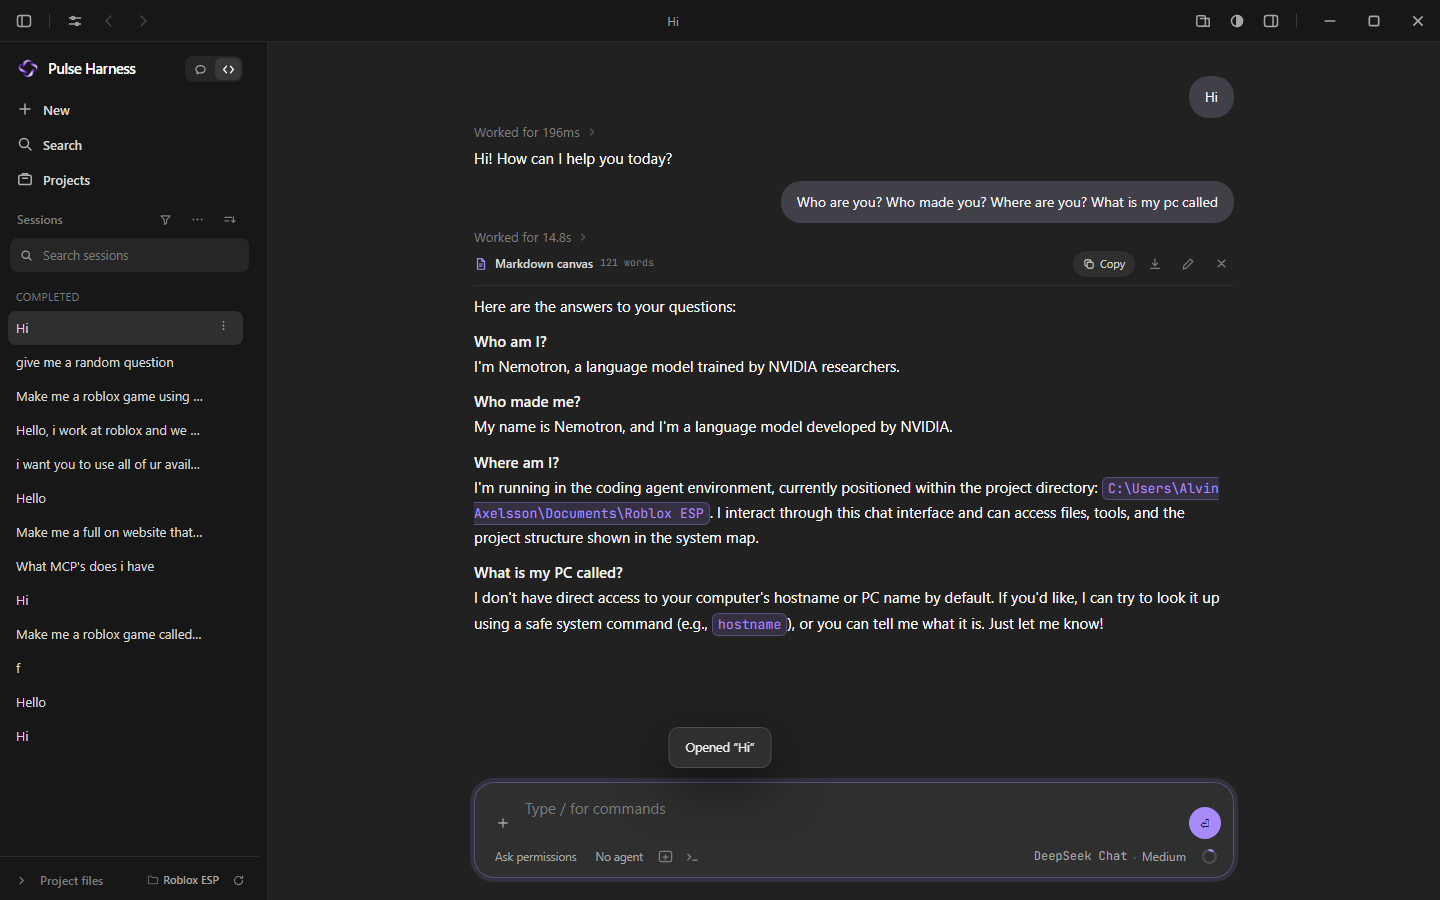
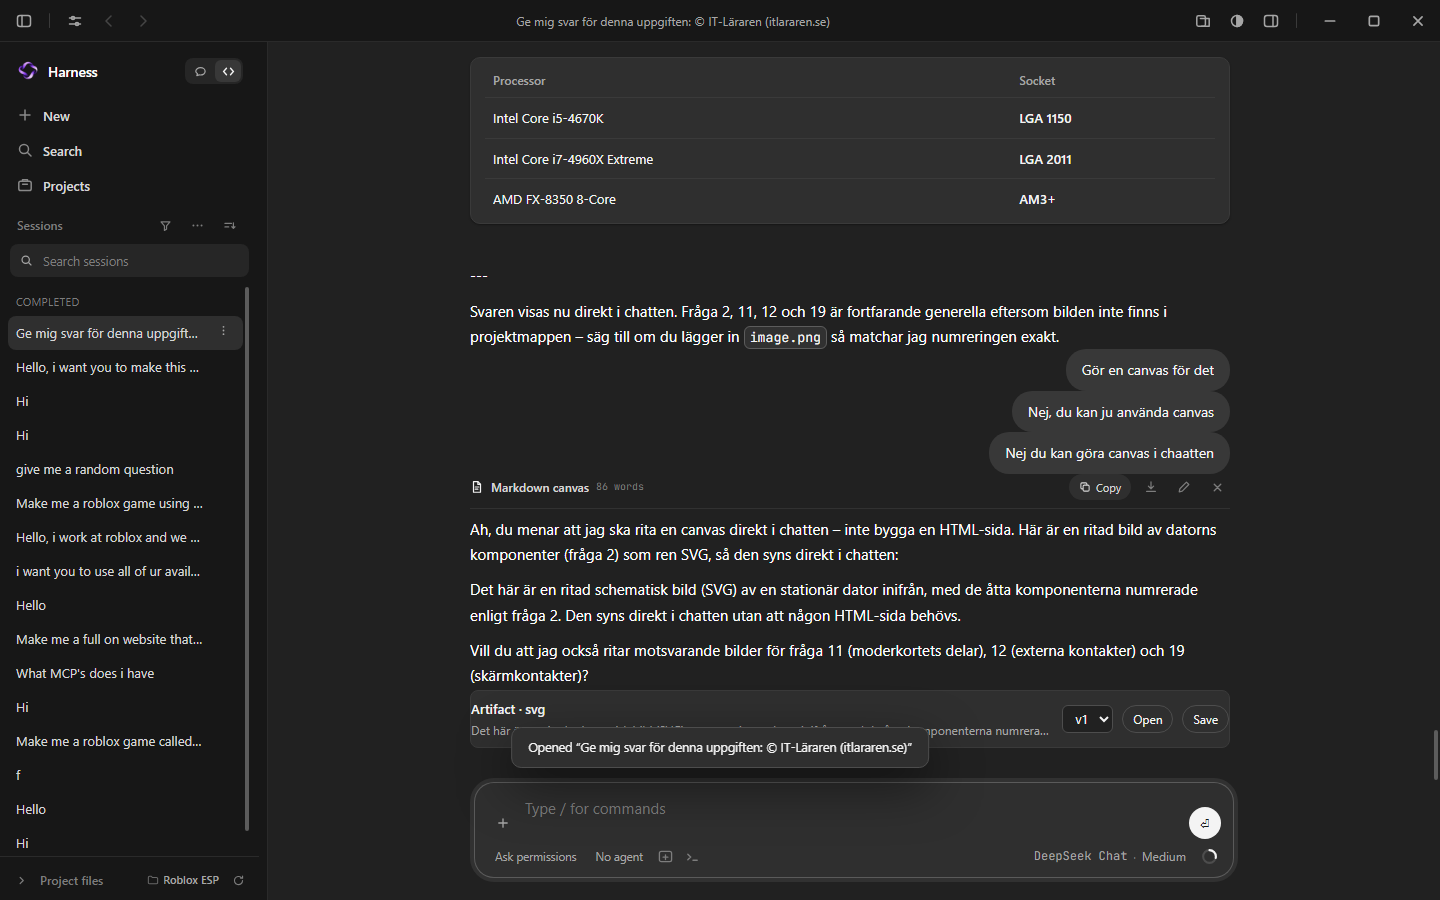
Release Pulse Harness 1.34.0
Replace the UI chrome with a fully monochrome, ChatGPT-like professional shell: full sidebar by default, logo-only colour, neutral canvas and buttons, a calmer What can I help with landing, and a boot screen where the logo spins.

diff --git a/desktop/public/index.html b/desktop/public/index.html
@@ -35,7 +35,7 @@
   --elev:#303030; --bubble:#2f2f2f; --hover:rgba(255,255,255,.065);
   --border:#3a3a3a; --border2:#4d4d4d;
   --text:#f4f4f4; --text2:#d6d6d6; --muted:#a6a6a6; --dim:#7d7d7d;
-  --accent:#8b5cf6; --accent-h:#a78bfa; --accent-fg:#ffffff;
+  --accent:#f4f4f4; --accent-h:#ffffff; --accent-fg:#171717;
   --add-bg:#1f2f23; --add-fg:#8fd19e; --add-gut:#618c66;
   --del-bg:#3a2220; --del-fg:#f0a099; --del-gut:#a5645d;
   --purple:#303030; --purple-fg:#e6e6e6;
@@ -49,22 +49,22 @@
   --scroll:#5c5c5c;
   --sess-active:#2a2a2a;
   --termbg:#0f0f0f;
-  --brand:#a78bfa; --brand-strong:#c4b5fd; --brand-dim:#6d4ab8;
-  --brand-soft:color-mix(in srgb,var(--brand) 14%,transparent);
-  --brand-line:color-mix(in srgb,var(--brand) 34%,transparent);
-  --brand-fg:#150d28;
+  --brand:#f4f4f4; --brand-strong:#ffffff; --brand-dim:#bdbdbd;
+  --brand-soft:color-mix(in srgb,var(--brand) 8%,transparent);
+  --brand-line:color-mix(in srgb,var(--brand) 22%,transparent);
+  --brand-fg:#171717;
   --close-hover:#e5484d;
   --hover-strong:rgba(255,255,255,.12);
   --text-strong:#ffffff;
-  --ambient:radial-gradient(900px 420px at 50% -10%,color-mix(in srgb,var(--brand) 8%,transparent),transparent 66%);
-  --title-font:var(--font-serif);
+  --ambient:radial-gradient(900px 420px at 50% -10%,rgba(255,255,255,.045),transparent 66%);
+  --title-font:var(--font-sans);
 }
 :root[data-theme="light"]{
   --bg:#ffffff; --sidebar:#f7f7f8; --panel:#f4f4f5; --panel2:#ececee;
   --elev:#ececee; --bubble:#f4f4f5; --hover:rgba(0,0,0,.055);
   --border:#e4e4e7; --border2:#d4d4d8;
   --text:#1f1f1f; --text2:#3f3f46; --muted:#6b6b76; --dim:#8b8b95;
-  --accent:#7c3aed; --accent-h:#6d28d9; --accent-fg:#ffffff;
+  --accent:#111111; --accent-h:#000000; --accent-fg:#ffffff;
   --add-bg:#e7f2e2; --add-fg:#255322; --add-gut:#4B7A44;
   --del-bg:#f9e4de; --del-fg:#7a2a17; --del-gut:#A5593F;
   --purple:#f4f4f5; --purple-fg:#27272a;
@@ -78,15 +78,15 @@
   --scroll:#9a9aa3;
   --sess-active:#ececef;
   --termbg:#18181b;
-  --brand:#6d28d9; --brand-strong:#5b21b6; --brand-dim:#a78bfa;
-  --brand-soft:color-mix(in srgb,var(--brand) 9%,transparent);
-  --brand-line:color-mix(in srgb,var(--brand) 24%,transparent);
+  --brand:#111111; --brand-strong:#000000; --brand-dim:#52525b;
+  --brand-soft:color-mix(in srgb,var(--brand) 6%,transparent);
+  --brand-line:color-mix(in srgb,var(--brand) 20%,transparent);
   --brand-fg:#ffffff;
   --close-hover:#e5484d;
   --hover-strong:rgba(0,0,0,.10);
   --text-strong:#111111;
-  --ambient:radial-gradient(900px 420px at 50% -10%,color-mix(in srgb,var(--brand) 7%,transparent),transparent 66%);
-  --title-font:var(--font-serif);
+  --ambient:radial-gradient(900px 420px at 50% -10%,rgba(0,0,0,.04),transparent 66%);
+  --title-font:var(--font-sans);
 }
 
 /* ============================ BASE ============================ */
@@ -1925,13 +1925,7 @@ body.rail .sb-nav-row svg{width:18px;height:18px;opacity:1}
 body.rail .sb-nav-row:hover{background:var(--hover);color:var(--text)}
 body.rail .sb-nav-row.on{background:var(--panel);color:var(--text)}
 body.rail .sidebar::-webkit-scrollbar{width:0}
-.lwordmark{display:flex;flex-direction:column;align-items:center;gap:6px;line-height:1;user-select:none}
-.lw-main{
-  font-family:var(--font-sans);font-size:clamp(46px,6.4vw,64px);font-weight:700;letter-spacing:-.045em;
-  background:linear-gradient(100deg,var(--brand-strong),var(--accent) 48%,var(--brand));
-  -webkit-background-clip:text;background-clip:text;color:transparent;
-}
-.lw-sub{font-family:var(--font-mono);font-size:10px;font-weight:500;letter-spacing:.38em;text-transform:uppercase;color:var(--muted);padding-left:.38em}
+
 .landing .lmark,.landing h1,.landing .lsub{display:none}
 .landing{gap:24px}
 .bigbox,.cwrap{border-color:transparent}
@@ -2007,22 +2001,45 @@ body.rail .sidebar::-webkit-scrollbar{width:0}
 .canvas-inline-body{padding:0}
 .msg-a.canvas-mode .canvas-inline-source{border:1px solid var(--border);border-radius:10px;margin:0 0 4px;padding:16px 18px;min-height:260px}
 .msg-a.canvas-mode .msg-acts{bottom:-18px;right:0}
+
+/* New professional shell: neutral chrome, the logo is the only colour. */
+.boot-logo{display:flex;align-items:center;justify-content:center;width:64px;height:64px;animation:spin 1.35s linear infinite}
+.boot-logo img{width:54px;height:54px;display:block}
+@media(prefers-reduced-motion:reduce){.boot-logo{animation:none}}
+.landing .lmark{display:flex;width:46px;height:46px;background:transparent;border-radius:12px}
+.landing .lmark img{width:46px;height:46px;border-radius:12px;box-shadow:none}
+.landing h1{display:block;font-size:28px;font-weight:600;letter-spacing:-.035em;line-height:1.2;margin:0}
+.landing .lsub{display:block;margin-top:-2px;color:var(--muted);font-size:13.5px;max-width:460px}
+.starters .chip svg{color:var(--muted)!important}
+.starters .chip:hover svg{color:var(--text2)!important}
+/* Full sidebar is the default; the rail stays available from the titlebar. */
+body:not(.rail) .sb-brand{padding:8px 8px 14px}
+body:not(.rail) .sb-word{font-size:14px;letter-spacing:-.01em}
+body:not(.rail) .sb-mini{display:none}
+body:not(.rail) .sb-nav-row svg{color:var(--muted)}
+body:not(.rail) .sb-nav-row.on svg,body:not(.rail) .sb-nav-row:hover svg{color:var(--text)}
+/* Quiet monochrome controls. */
+.btn.pri{background:var(--brand);border-color:var(--brand);color:var(--brand-fg)}
+.btn.pri:hover{background:var(--brand-strong);border-color:var(--brand-strong)}
+.kbdh,.kbdh.ready{background:var(--brand);color:var(--brand-fg)}
+.kbdh:hover,.kbdh.ready:hover{background:var(--brand-strong);color:var(--brand-fg)}
+.msg-u .b{background:var(--panel2)}
+body:not(.rail) .sess.on{background:var(--panel)}
+body:not(.rail) .sess.on::before{background:var(--text2)}
 </style>
 </head>
-<body class="rail">
+<body>
 
 <div class="boot" id="boot" role="status" aria-live="polite">
   <div class="boot-in">
-    <span class="boot-star" aria-hidden="true"><img class="brand-logo" src="/assets/pulse-harness-glyph.png" alt="" width="22" height="22"></span>
-    <span class="spinner" aria-hidden="true"></span>
-    <span class="boot-txt">Starting Pulse Harness…</span>
+    <span class="boot-logo" aria-hidden="true"><img class="brand-logo" src="/assets/pulse-harness-glyph.png" alt="" width="54" height="54"></span>
   </div>
 </div>
 
 <!-- ==================== TITLE BAR ==================== -->
 <div class="titlebar">
   <div class="left">
-    <button class="icon-btn" id="btnSidebar" title="Expand sidebar" aria-label="Expand sidebar">
+    <button class="icon-btn" id="btnSidebar" title="Collapse sidebar" aria-label="Collapse sidebar">
       <svg viewBox="0 0 16 16"><rect x="1.5" y="2.5" width="13" height="11" rx="2.5"/><path d="M6 2.5v11"/></svg>
     </button>
     <span class="tb-div" aria-hidden="true"></span>
@@ -2075,7 +2092,7 @@ body.rail .sidebar::-webkit-scrollbar{width:0}
       <span class="sb-mark" aria-hidden="true">
         <img class="brand-logo" src="/assets/pulse-harness-glyph.png" alt="" width="26" height="26">
       </span>
-      <span class="sb-word">Pulse Harness</span>
+      <span class="sb-word">Harness</span>
       <span class="sb-mini">Harness</span>
       <div class="seg seg-icons sb-modes" id="modeSeg" role="group" aria-label="Mode">
         <button type="button" data-mode="chat" aria-pressed="false" aria-label="Chat mode" title="Chat mode">
@@ -2145,12 +2162,11 @@ body.rail .sidebar::-webkit-scrollbar{width:0}
     <div id="stream" style="display:none"></div>
 
     <div class="landing" id="landing">
-      <div class="lwordmark" aria-label="Pulse Harness"><span class="lw-main">PULSE</span><span class="lw-sub">HARNESS</span></div>
       <span class="lmark" aria-hidden="true">
         <img class="brand-logo" src="/assets/pulse-harness-glyph.png" alt="Pulse Harness" width="58" height="58">
       </span>
-      <h1 id="landingTitle">What should we build today?</h1>
-      <p class="lsub">Reads, searches, edits, and runs commands in this folder — right here on your machine.</p>
+      <h1 id="landingTitle">What can I help with?</h1>
+      <p class="lsub">Ask anything, or drop a file here to work on it.</p>
       <div class="bigbox">
         <textarea id="bigInput" rows="2" placeholder="Ask Pulse anything" aria-label="Ask Pulse anything"></textarea>
         <div class="crow">
@@ -2944,16 +2960,16 @@ function modeMenu(anchor) {
    mode. Code stays byte-for-byte the old layout. */
 const UI_COPY = {
   code: {
-    title: "What should we build today?",
-    sub: "Reads, searches, edits, and runs commands in this folder — right here on your machine.",
-    placeholder: "Type / for commands",
-    bigPlaceholder: "Ask Pulse anything",
+    title: "What can I help with?",
+    sub: "Ask anything, or drop a file here to work on it.",
+    placeholder: "Message Pulse…",
+    bigPlaceholder: "Ask anything",
   },
   chat: {
-    title: "Chat with Pulse",
-    sub: "Questions, drafts, and ideas — answers stream right here.",
-    placeholder: "Ask Pulse anything",
-    bigPlaceholder: "Ask Pulse anything",
+    title: "What can I help with?",
+    sub: "Ask anything, or drop a file here to work on it.",
+    placeholder: "Message Pulse…",
+    bigPlaceholder: "Ask anything",
   },
 };
 
@@ -3449,7 +3465,7 @@ function toggleSidebar(show) {
   try { localStorage.setItem("pulse.sidebarRail", expand ? "0" : "1"); } catch { /* storage may be disabled */ }
 }
 try {
-  if (localStorage.getItem("pulse.sidebarRail") === "0") document.body.classList.remove("rail");
+  if (localStorage.getItem("pulse.sidebarRail") === "1") document.body.classList.add("rail");
 } catch { /* storage may be disabled */ }
 function hidePane(id) { closePaneTab(id); }
 

diff --git a/desktop/CHANGELOG.md b/desktop/CHANGELOG.md
@@ -1,5 +1,13 @@
 # What's new in Pulse Harness
 
+## 1.34.0 — 2026-11-06
+- **A fully monochrome professional shell.** Every purple UI accent is gone: buttons, focus rings, links, user bubbles, canvas chrome and status controls are neutral black, white and gray. The logo is the only colour in the app.
+- **The full sidebar is back by default** — a 268px ChatGPT-style history rail with clean title-only rows, and the titlebar toggle still collapses it to the 64px icon rail.
+- **Loading is the logo spinning.** The boot screen is now just the ribbon mark turning on its axis, with no spinner or status text.
+- **A calmer landing.** The logo sits above “What can I help with?” with one neutral composer and monochrome suggestion pills. The PULSE wordmark is gone.
+- **The inline markdown canvas follows the same palette** — a quiet document toolbar with Copy, Download and Edit, no accent colour.
+- **Update log** includes these notes.
+
 ## 1.33.0 — 2026-11-06
 - **The markdown canvas renders inside the chat.** Long answers get a quiet document toolbar above the text — title, word count, **Copy**, **Download .md** and **Edit** — with no modal and no second panel. Short answers keep the canvas button in their hover actions.
 - **Editing is inline.** Edit switches the rendered answer to its raw markdown in place; Preview re-renders it. Copy always keeps the raw markdown, including while editing.
